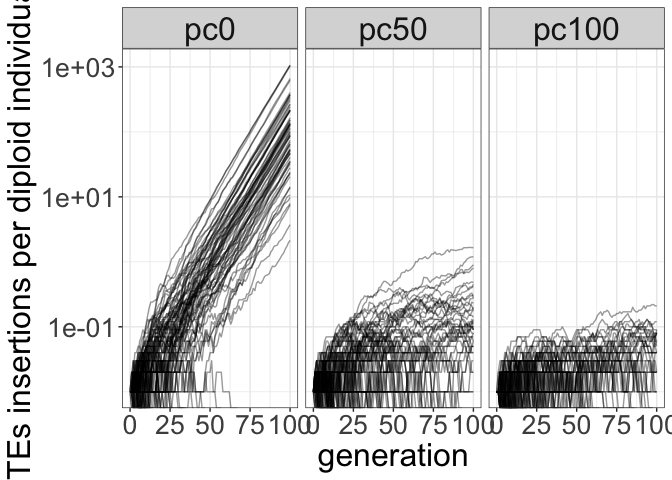
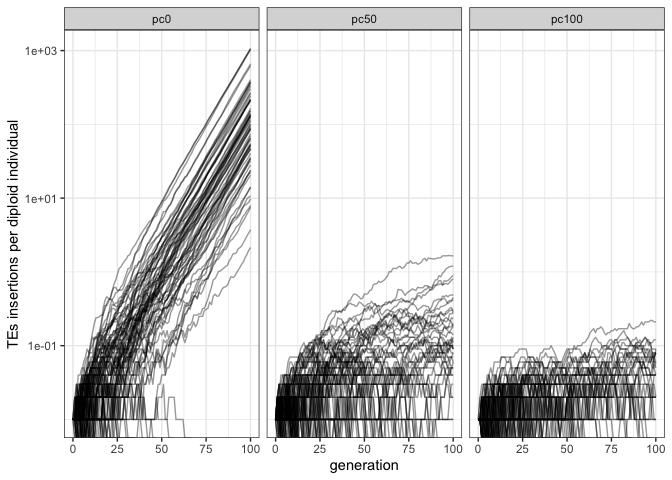
Minor fix

diff --git a/Validation/2022_08_01_Validation_3_clusters.md b/Validation/2022_08_01_Validation_3_clusters.md
@@ -80,12 +80,6 @@ g<-ggplot()+geom_line(data=data_new,aes(x=gen,group=rep,y=avtes),alpha=0.4)+
   scale_y_log10()+
   ylab("TEs insertions per diploid individual")+xlab("generation")+
   facet_grid(.~sampleid)+
-  theme(plot.title = element_text(size=24),
-        axis.text.x = element_text(size=20),
-        axis.text.y = element_text(size=20),
-        axis.title.x = element_text(size=24),
-        axis.title.y = element_text(size=24),
-        strip.text = element_text(size = 24))+
   facet_wrap(~sampleid, ncol=3)
 
 plot(g)
